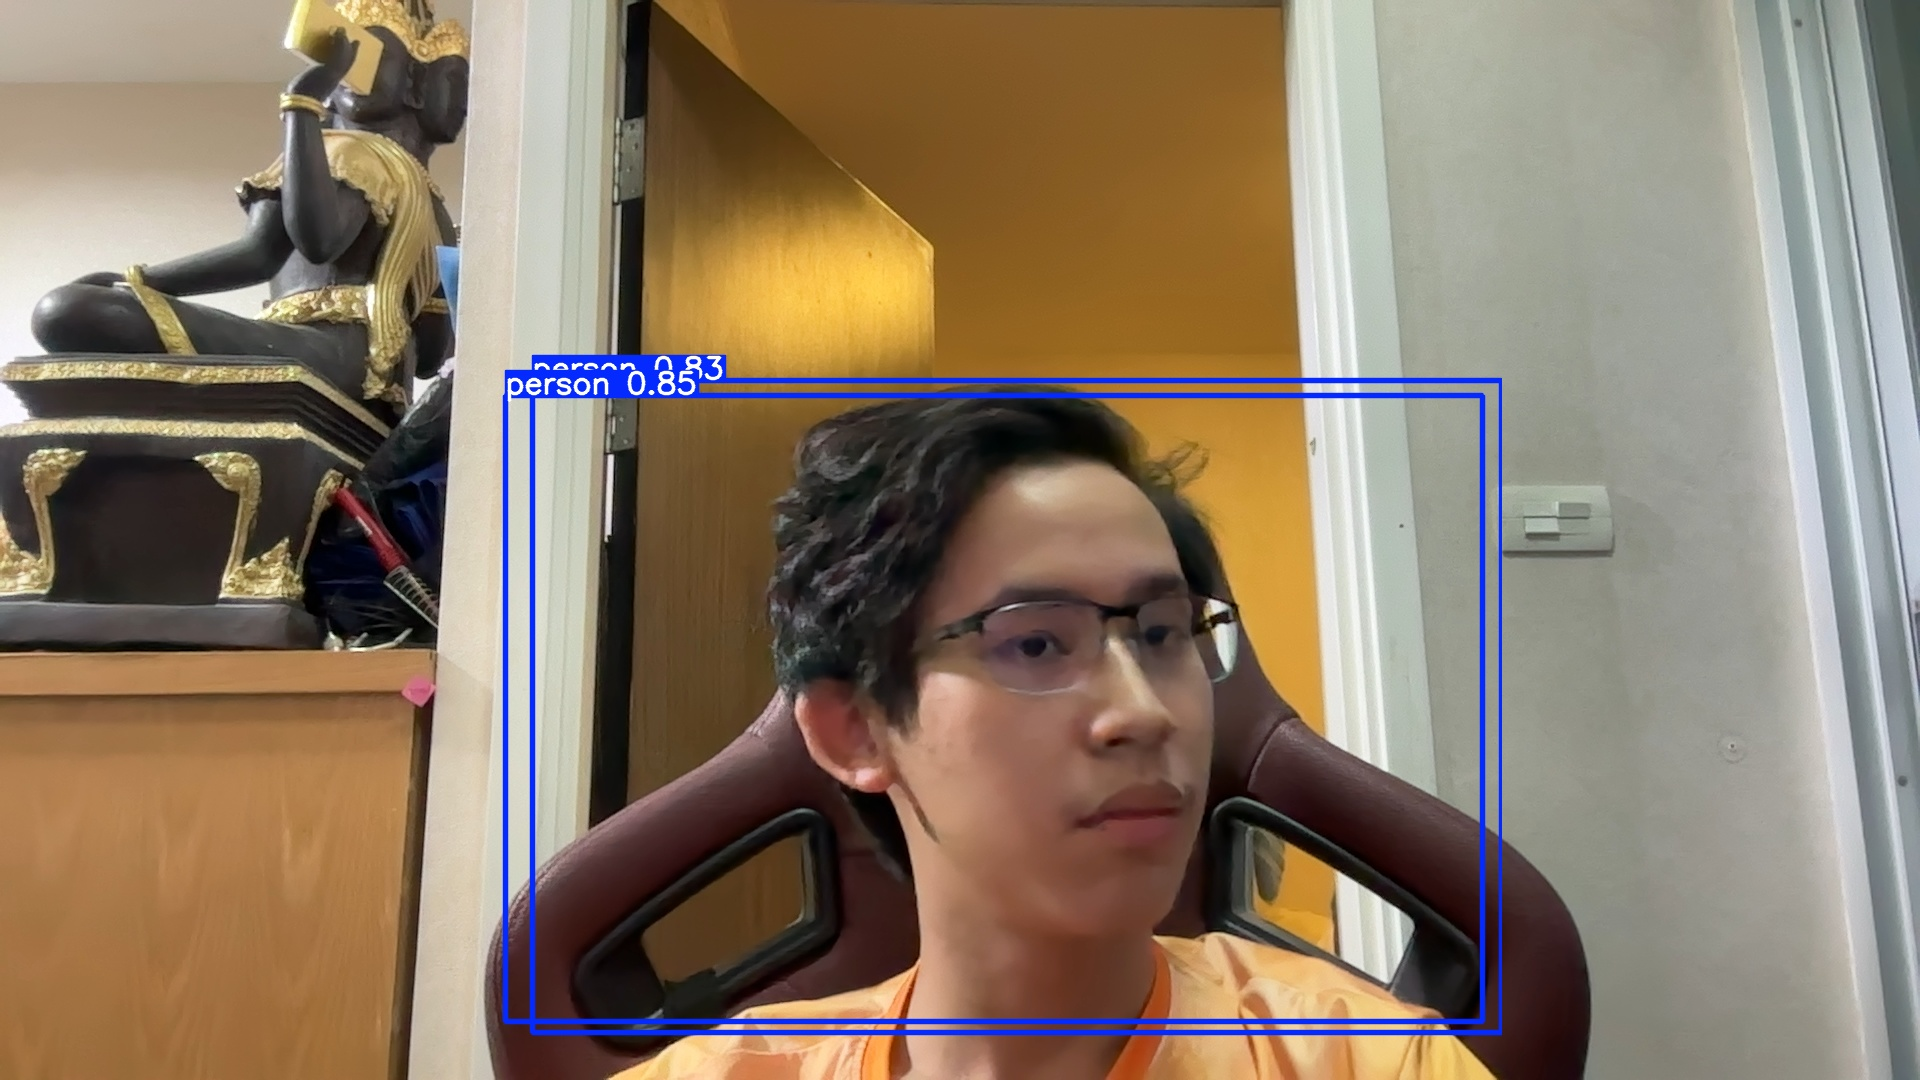
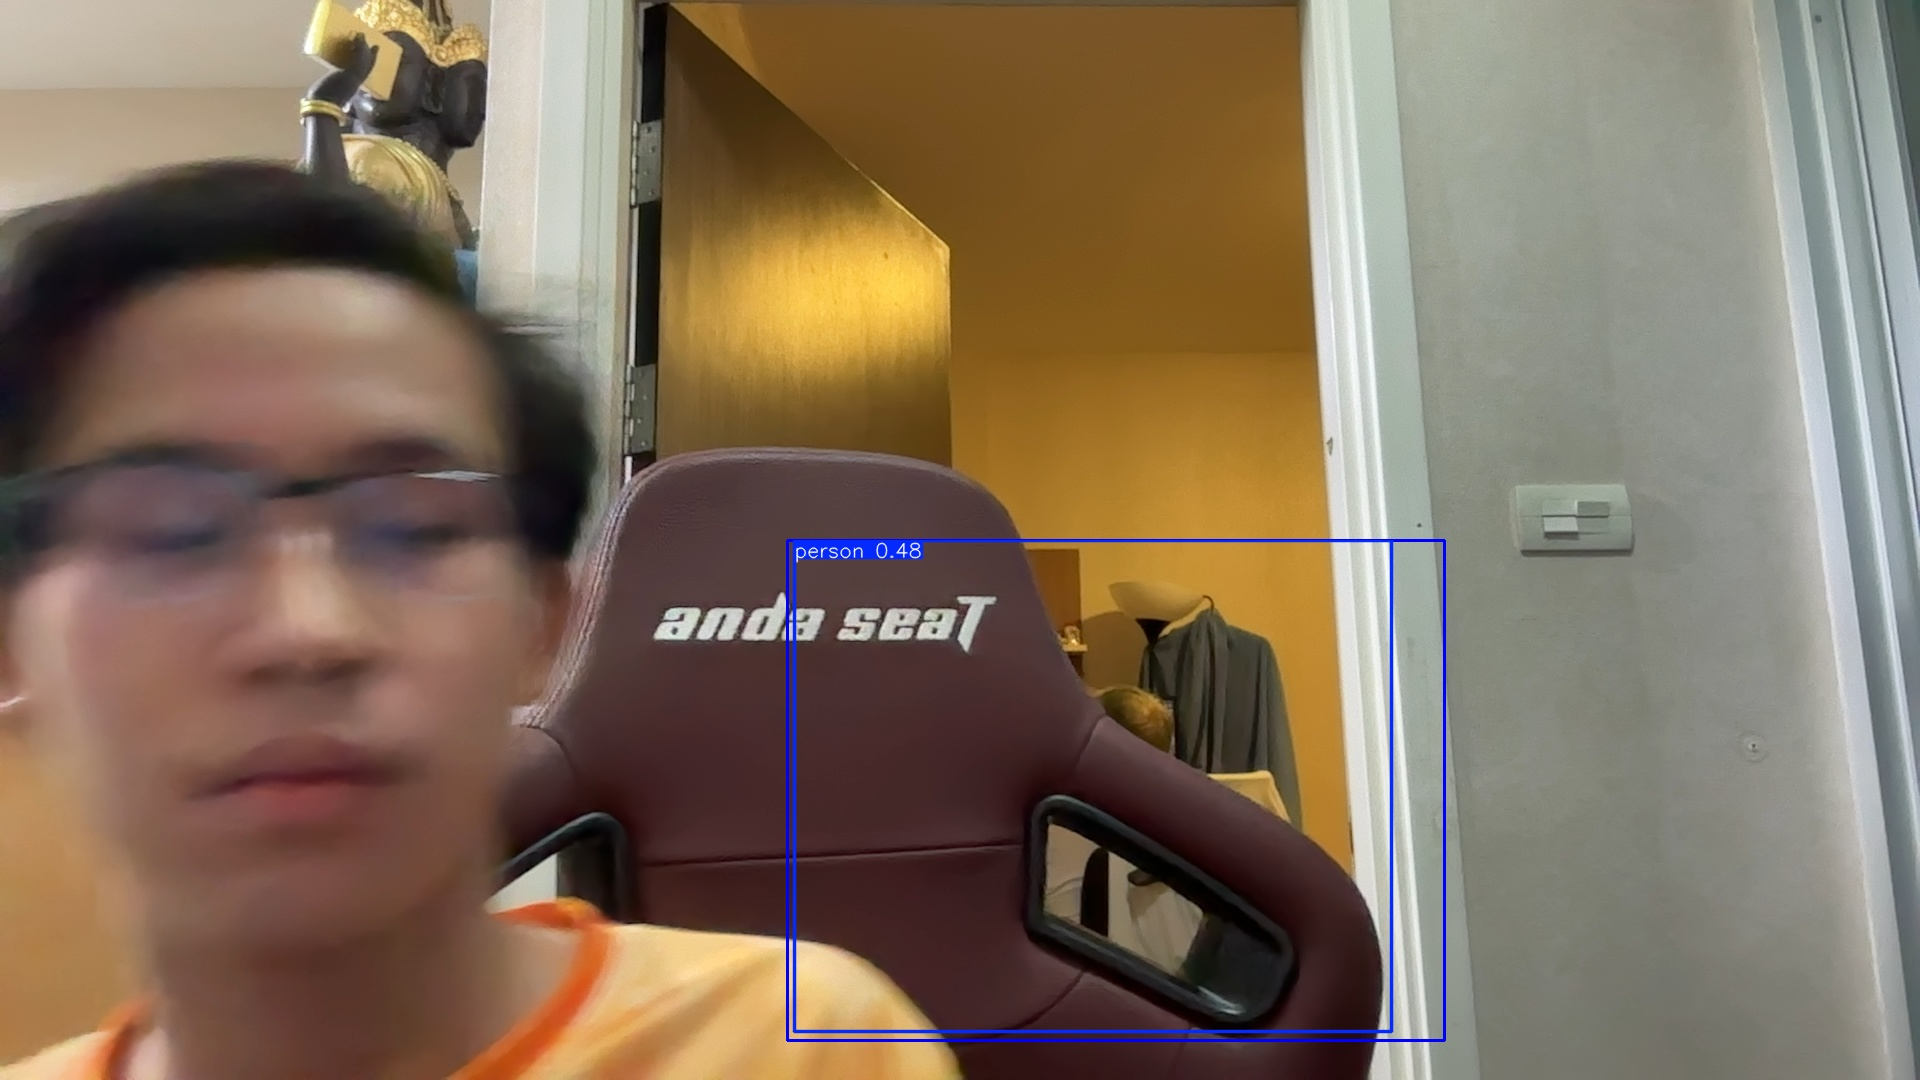
mutiple ROI,fix timer

diff --git a/camscript.py b/camscript.py
@@ -1,6 +1,7 @@
 import cv2
 import time
 import os
+import json
 from yolo_detection import detect_and_display
 
 more2 = 1
@@ -12,6 +13,7 @@ if not os.path.exists(image_dir):
 
 # Open the camera
 cap = cv2.VideoCapture(0)
+time.sleep(2)
 
 # Check if the camera is opened correctly
 if not cap.isOpened():
@@ -22,9 +24,9 @@ if not cap.isOpened():
 image_counter = 1
 
 # Function to save the image
-def save_image(frame, image_counter):
+def save_image(frame, image_counter, prefix=''):
     # Generate the filename based on the image number
-    filename = os.path.join(image_dir, f"image{image_counter}.jpg")
+    filename = os.path.join(image_dir, f"{prefix}image{image_counter}.jpg")
 
     # Save the frame as an image
     cv2.imwrite(filename, frame)
@@ -36,6 +38,22 @@ def select_rois(frame):
     cv2.destroyWindow("Select ROIs")
     return rois
 
+# Function to save ROIs to a file
+def save_rois(rois, filename='rois.json'):
+    with open(filename, 'w') as f:
+        json.dump(rois.tolist(), f)
+    print(f"ROIs saved to {filename}")
+
+# Function to load ROIs from a file
+def load_rois(filename='rois.json'):
+    if os.path.exists(filename):
+        with open(filename, 'r') as f:
+            rois = json.load(f)
+        print(f"ROIs loaded from {filename}")
+        return rois
+    else:
+        return None
+
 # Capture a frame to select ROIs
 ret, frame = cap.read()
 if not ret:
@@ -44,12 +62,15 @@ if not ret:
     cv2.destroyAllWindows()
     exit()
 
-# Select ROIs manually once
-rois = select_rois(frame)
-print(f"Selected ROIs: {rois}")
+# Load existing ROIs or select new ones
+rois = load_rois()
+if rois is None or input("Use existing ROIs? (y/n): ").strip().lower() != 'y':
+    rois = select_rois(frame)
+    save_rois(rois)
 
 # Loop to capture images
 try:
+    start_time = time.time()
     while True:
         # Capture a frame from the camera
         ret, frame = cap.read()
@@ -58,27 +79,40 @@ try:
             print("Error: Failed to capture image.")
             break
 
-        # Perform YOLO detection and display results for each ROI
-        for roi in rois:
-            x, y, w, h = roi
-            if w > 0 and h > 0:  # Ensure the ROI is valid
-                roi_frame = frame[y:y+h, x:x+w]
-                annotated_frame = detect_and_display(roi_frame, image_counter)
-                frame[y:y+h, x:x+w] = annotated_frame  # Place the annotated ROI back into the frame
-            else:
-                print(f"Invalid ROI: {roi}")
+        # Check if 10 seconds have passed
+        if time.time() - start_time >= 10:
+            # Save the current frame before processing
+            save_image(frame, image_counter, prefix='current_')
 
-        # Show the annotated frame in the same window
-        cv2.imshow("YOLO Detection", frame)
+            # Draw the selected ROIs on the frame
+            for roi in rois:
+                x, y, w, h = roi
+                if w > 0 and h > 0:  # Ensure the ROI is valid
+                    cv2.rectangle(frame, (x, y), (x + w, y + h), (255, 0, 0), 2)
+                else:
+                    print(f"Invalid ROI: {roi}")
 
-        # Save the annotated image
-        save_image(frame, image_counter)
+            # Perform YOLO detection and display results for each ROI
+            for roi in rois:
+                x, y, w, h = roi
+                if w > 0 and h > 0:  # Ensure the ROI is valid
+                    roi_frame = frame[y:y+h, x:x+w]
+                    annotated_frame = detect_and_display(roi_frame, image_counter)
+                    frame[y:y+h, x:x+w] = annotated_frame  # Place the annotated ROI back into the frame
+                else:
+                    print(f"Invalid ROI: {roi}")
 
-        # Update the counter and reset it to 1 after 6
-        image_counter = (image_counter % 6) + 1
+            # Show the annotated frame in the same window
+            cv2.imshow("YOLO Detection", frame)
 
-        # Wait for 10 seconds before capturing the next photo
-        time.sleep(10)
+            # Save the annotated image
+            save_image(frame, image_counter)
+
+            # Update the counter and reset it to 1 after 6
+            image_counter = (image_counter % 6) + 1
+
+            # Reset the start time
+            start_time = time.time()
 
         # Break the loop on 'q' key press
         if cv2.waitKey(1) & 0xFF == ord('q'):
